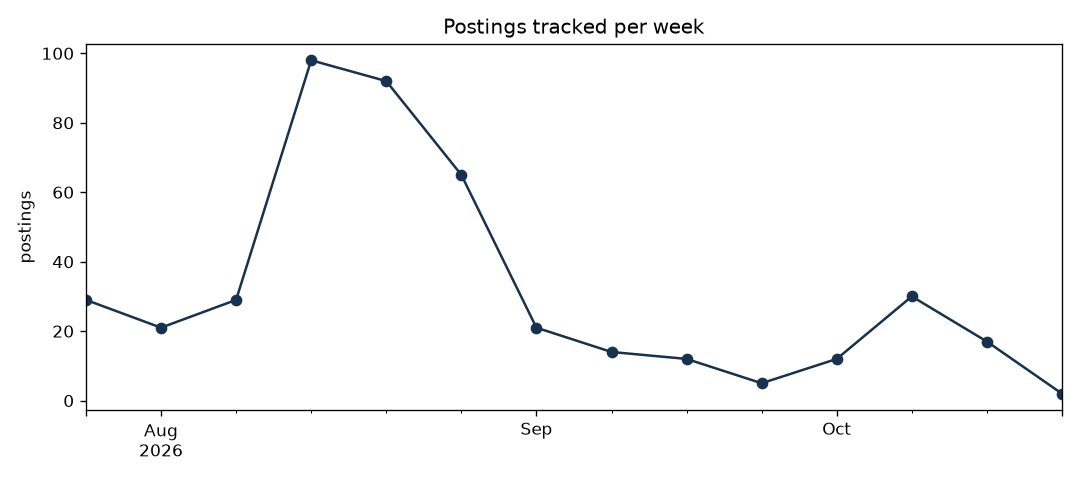
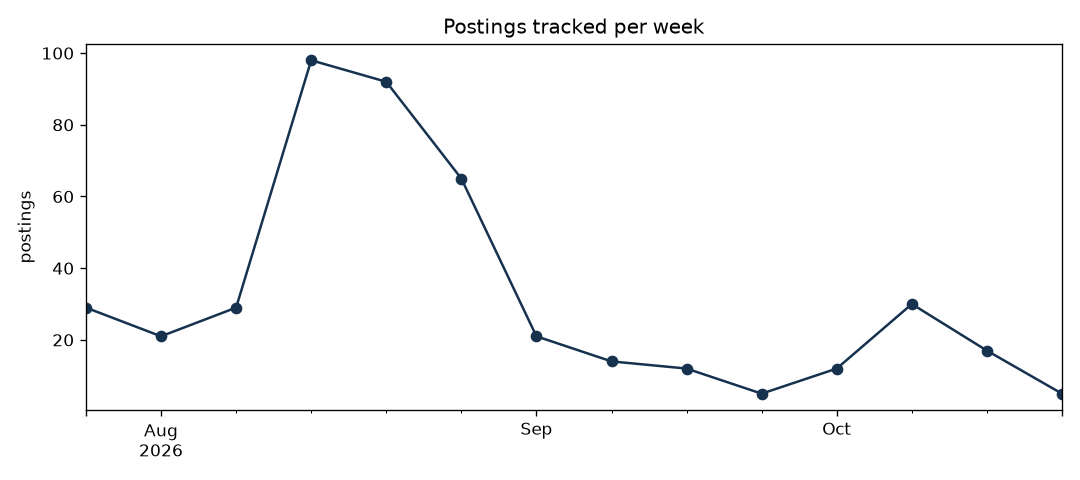
Daily data update

diff --git a/README.md b/README.md
@@ -13,13 +13,13 @@ reporting end to end.
 ## Dashboard
 
 <!-- dashboard:start -->
-*Last updated: 2026-10-28 18:39 UTC*
+*Last updated: 2026-10-29 18:47 UTC*
 
 | | |
 |---|---|
-| Postings tracked | 447 |
-| Companies | 372 |
-| New since last run | 0 |
+| Postings tracked | 450 |
+| Companies | 373 |
+| New since last run | 3 |
 | Data/ML-related share | 31% |
 
 ![Postings per week](reports/figures/postings_per_week.png)
